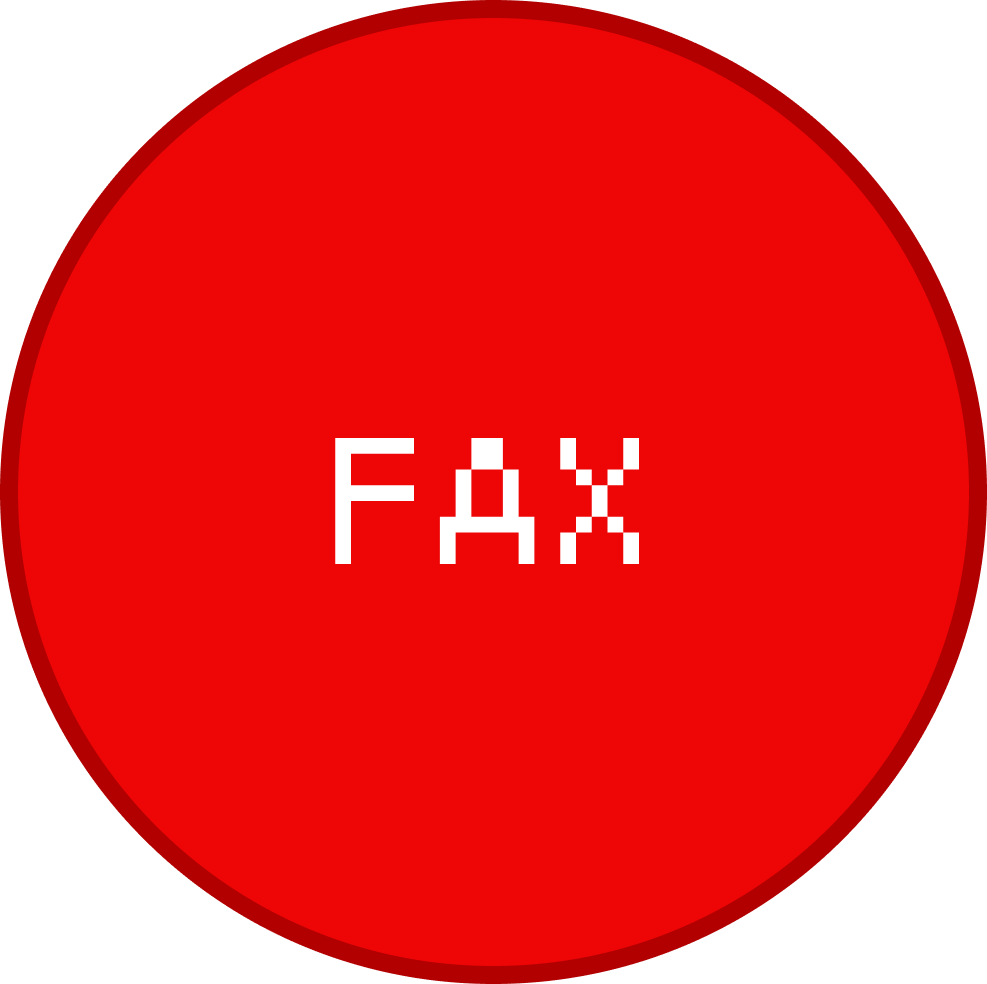
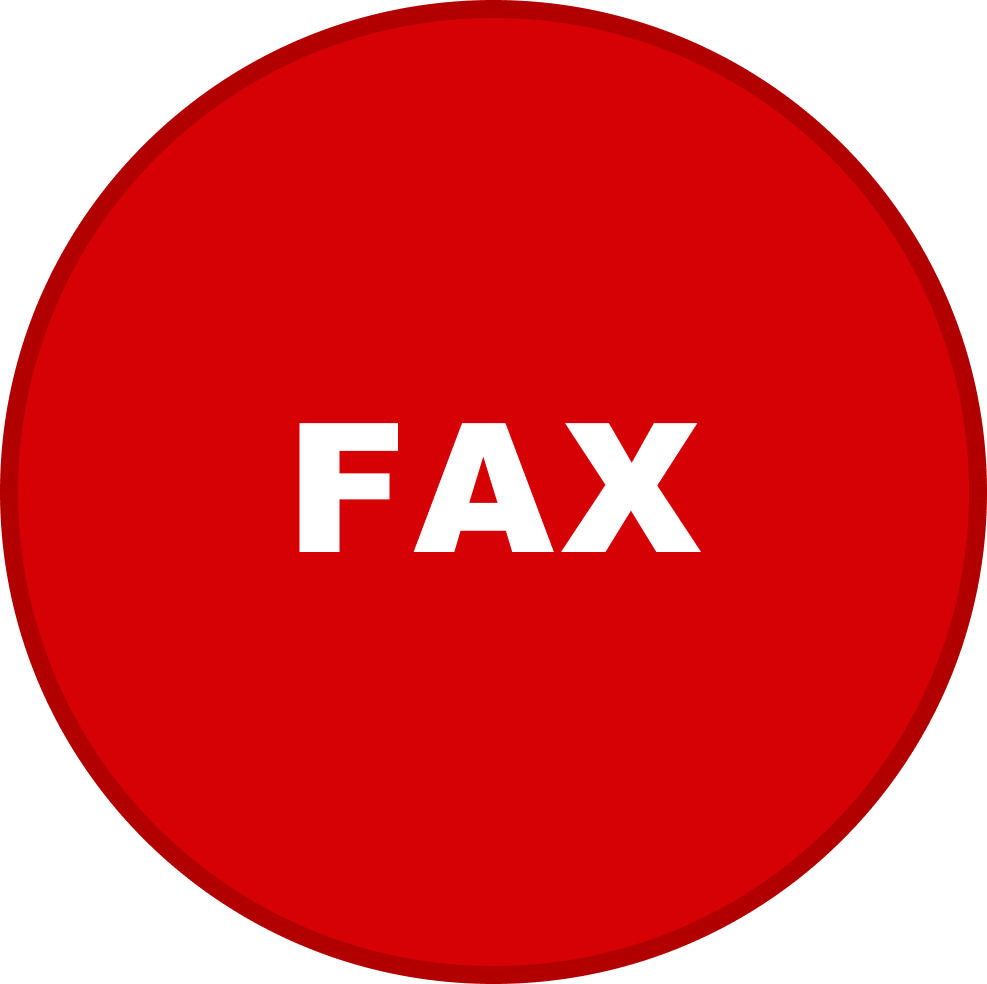
red

Changed region(s): [[0.304, 0.4268, 0.7295, 0.5793]]

diff --git a/src/faxed.js b/src/faxed.js
@@ -76,7 +76,7 @@ class Faxed extends Component{
           ></SmallImage> 
         
             <div className="Faxed-Container-CTA">
-                <div className = "Faxed-Text" >YOU JUST FAXED THE OFFICE OF THE PRESIDENT AT STANFORD, BERKELEY, MIT & EVERY IVY LEAGUE PRES. YOU'RE A COLLABORATION CHAMPION.</div>
+                <div className = "Faxed-Text" >YOU JUST FAXED THE OFFICE OF THE PRESIDENT AT STANFORD, BERKELEY, MIT & EVERY IVY LEAGUE PRES.</div>
                 <Highlighter text = "This is a protest by TEACH.  Drop your email if you want to see what we make next."></Highlighter>
                 {/* <a className="Button" href = "https://apps.apple.com/us/app/teach-learn-with-your-class/id1538387223" target = "_blank"> <ConfirmButton text = "DOWNLOAD TEACH + COLLAB"></ConfirmButton> </a>  */}
         

diff --git a/src/App.js b/src/App.js
@@ -40,7 +40,7 @@ import {CSSTransition, TransitionGroup} from 'react-transition-group';
 import Fade from 'react-reveal/Fade';
 import { BrowserRouter as Router, Route,Link, Switch } from 'react-router-dom';
 import flame from './images/redflame@2x.png';
-import button from './images/redbutton@2x.png';
+import button from './images/redbutton@3X.png';
 
 
 

diff --git a/src/components/title.js b/src/components/title.js
@@ -33,7 +33,7 @@ const CaseTitle = styled.div`
     font-weight: normal;
     font-family: Arial-black;
     font-size: 40px;
-    color: red;
+    color: #D60105;
     line-height: 1.4;
     // font-weight: 600;
     text-align: center;

diff --git a/src/components/paragraph.js b/src/components/paragraph.js
@@ -11,6 +11,7 @@ const CaseParagraph = styled.div`
     text-align: left;
     margin-top: 1em;
     margin-bottom: 1.5em;
+    color: #D60105;
 
     @media (max-width: 1000px) {
        margin-left: 7vw;

diff --git a/src/components/highlighter.js b/src/components/highlighter.js
@@ -8,7 +8,7 @@ const CaseLine = styled.div`
     text-align: left;
     font-size: 24px;
     line-height: 40px;
-    color: red;
+    color: #D60105;
     // background-color: rgba(255, 0, 0, 0.1);
 
 

diff --git a/src/App.css b/src/App.css
@@ -121,7 +121,7 @@
   font-family: Teight;
   font-weight: normal;
   font-size: 48px;
-  color: red;
+  color: #D60105;
   text-align: center;
   margin-left: 7vw;
   margin-right: 7vw;

diff --git a/src/components/line.js b/src/components/line.js
@@ -7,7 +7,7 @@ const CaseLine = styled.div`
     text-align: left;
     font-size: 24px;
     line-height: 40px;
-    color: red;
+    color: #D60105;
   
 
 

diff --git a/src/components/label.css b/src/components/label.css
@@ -3,6 +3,7 @@
     font-weight: normal;
     font-size: 60px;
     text-align: center;  
+    color: #D60105;
 }
 
 .Fax-container{
